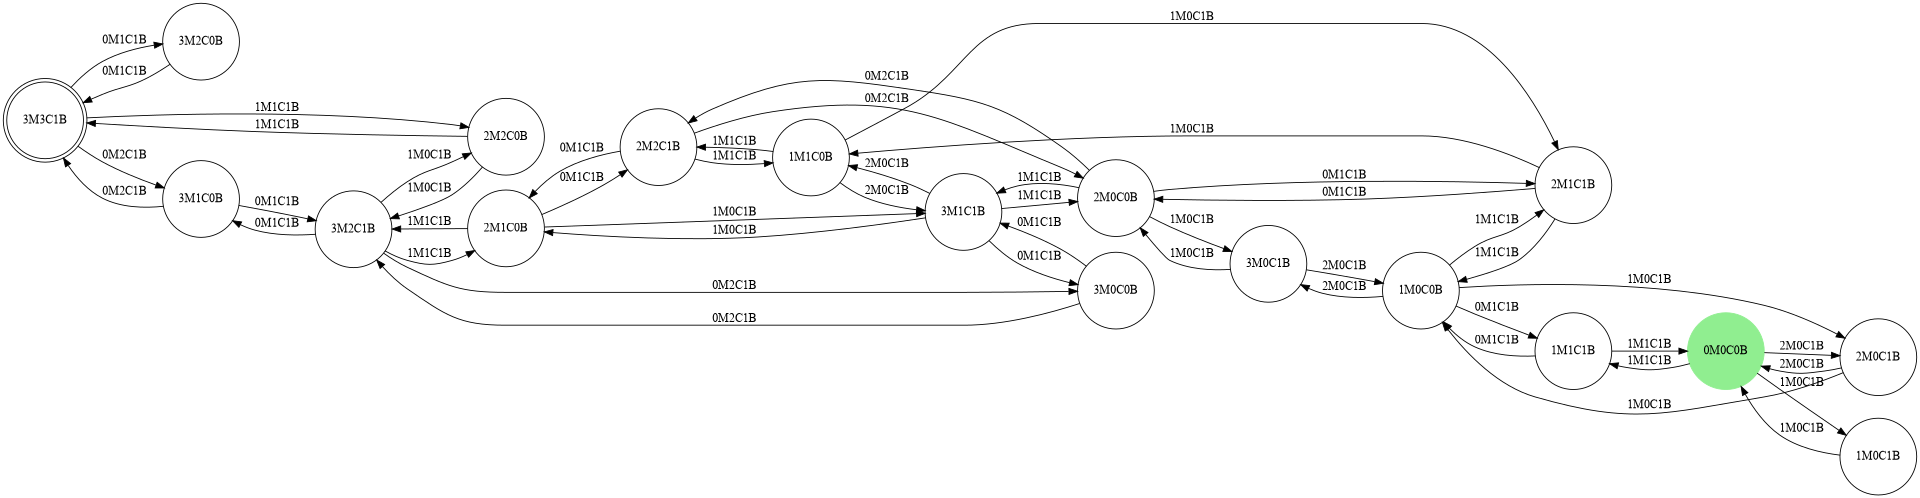
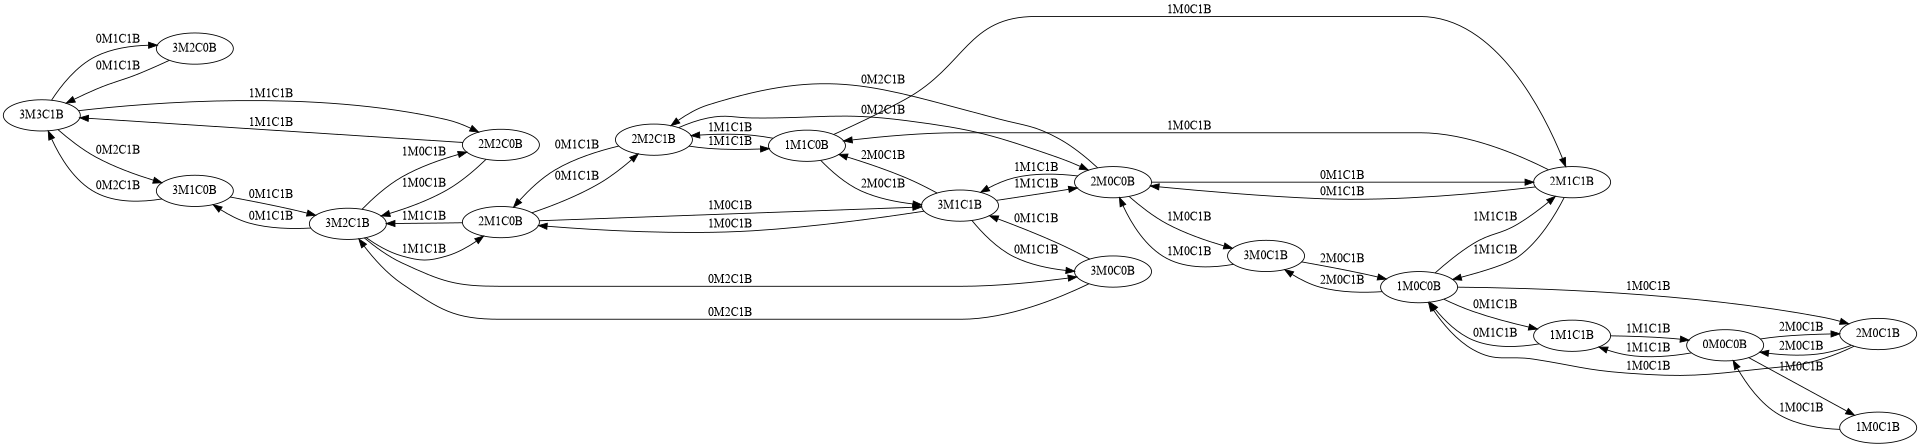
okay

diff --git a/AI/Missionaries_And_Cannibals/main.py b/AI/Missionaries_And_Cannibals/main.py
@@ -1,39 +1,38 @@
-"""
-Represent the state space for the well-known Missionaries and Cannibals Game
-and generate it.
-
-M = Missionaries
-C = Cannibals
-B = Boat/Canoe
-"""
-
 import numpy as np
 from graphviz import Digraph
-# self defined imports
-from graph import Graph
+from collections import defaultdict
 
+class Graph():
+    def __init__(self):
+        self.graph = defaultdict(list)
 
-INITIAL_STATE = [3, 3, 1]  # M, C and B
-GOAL = [0, 0, 0]  # Final Goal State
+    def add_edges(self, node1, node2, action):
+        """ add n1 to n2 edge with its label """
+        self.graph[node1].append({action: node2})
 
-"""
- List of ACTIONS That Can be performed
-"""
-ACTIONS = [
-    [1, 0, 1],
-    [2, 0, 1],
-    [0, 1, 1],
-    [0, 2, 1],
-    [1, 1, 1],
-    ]
+    def get_nodes(self, state):
+        nodes = []
+        node_data = self.graph[state]
+        for node in node_data:
+            nodes.append(*node.values())
+        return nodes
 
+    def get_nodes_and_edge_name(self, state):
+
+        node_data = self.graph[state]
+        nodes = []
+        edge_names = []
+
+        for n in node_data:
+            nodes.append(*n.values())
+            edge_names.append(*n.keys())
+
+        return edge_names, nodes
+
+    def show(self):
+        print(self.graph)
 
 def illegal_state(state):
-    """
-    which states are illegal in this problems
-    if C > M
-    """
-    # if sata
     if state[1] > state[0]:
         return True
     if state[0] < 0 or state[0] > 3:
@@ -43,21 +42,12 @@ def illegal_state(state):
 
     return False
 
-
 def get_new_state(state, action):
-    """
-    vector subtraction/addition to get the new state
-    """
-    if state[2] == 1:  # boat is in the initial side
+    if state[2] == 1:
         return list(np.asarray(state) - np.asarray(action))
     return list(np.asarray(state) + np.asarray(action))
 
-
 def node_name(state):
-    """
-    Converting list state to string
-    eg. [3, 3, 1] == 3M3C1B
-    """
     nm = ""
     nm += str(state[0]) + "M"
     nm += str(state[1]) + "C"
@@ -66,12 +56,7 @@ def node_name(state):
 
 
 def add_to_graph_with_action(state):
-    """
-    Add the state and the new state to the graph,
-    obtained from the actions only if it is legal
-    """
     global GRAPH
-    # GRAPH[''.join(state)] = []
     for action in ACTIONS:
         n1 = node_name(state)
         n2 = get_new_state(state, action)
@@ -80,48 +65,37 @@ def add_to_graph_with_action(state):
 
 
 def generate_the_digraph(GRAPH):
-    """
-    Generating the state space diagram
-    """
 
     vertices = list(GRAPH.graph.keys())
     f = Digraph('M_And_C', filename='MCB.gv')
-    f.attr(size='20,20')  # for vertical
-    # f.attr(rankdir='LR', size='20,18')  # for horizontal
+    f.attr(rankdir='LR', size='20,20')
 
-    # double circle for initial state representation
-    f.attr('node', shape='doublecircle', style='filled', color='pink')
     f.node(vertices[0])
-
-    # normal circle for other state
-    f.attr('node', shape='circle', style='', color='',)
 
     for vertex in vertices:
         edge_name, neighbours = GRAPH.get_nodes_and_edge_name(vertex)
         for en, n in zip(edge_name, neighbours):
-            if n == GOAL:
-                # f.attr('node', style='filled', color='lightgreen')
-                f.attr('node', shape='doublecircle',
-                       style='filled', color='lightgreen')
-                f.edge(vertex, node_name(n), label=en)
-                f.attr('node', shape='circle', style='', color='',)
-            else:
-                f.edge(vertex, node_name(n), label=en)
+            f.edge(vertex, node_name(n), label=en)
 
-    # f
-    # f.save()
-    # $ dot -Tpng MCB.gv -o MCB_vertical.png
     f.view()
+
+
+INITIAL_STATE = [3, 3, 1]
+GOAL = [0, 0, 0]
+
+ACTIONS = [
+    [1, 0, 1],
+    [2, 0, 1],
+    [0, 1, 1],
+    [0, 2, 1],
+    [1, 1, 1],
+    ]
 
 
 if __name__ == "__main__":
 
-    GRAPH = Graph()  # For representing the state space
+    GRAPH = Graph()
 
-    print("Generating the State Space")
-
-    # Implemented the Depth First Search
-    # So used STACK
     STACK = [INITIAL_STATE]
     VISITED = []
     while STACK != []:
@@ -129,24 +103,12 @@ if __name__ == "__main__":
         current_state = STACK[-1]
 
         if current_state not in VISITED:
-            """
-            Performing actions on the current state adding to the graph
-            Also keeping the track of the visited state in VISITED
-            """
             VISITED.append(current_state)
             add_to_graph_with_action(current_state)
-            _ = STACK.pop()  # poping the current state from the stack
+            _ = STACK.pop()
 
-            # node_data = GRAPH.get_nodes(node_name(current_state))
-            # print(node_data)
             STACK.extend(GRAPH.get_nodes(node_name(current_state)))
         else:
-            """
-            it looks like the current state is already traversed so,
-            poping it
-            """
             _ = STACK.pop()
-        # STACK = []
-    print("The State Space is Generated ")
 
     generate_the_digraph(GRAPH)
